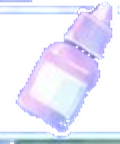
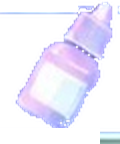
Add files via upload

Changed region(s): [[0.0, 0.8889, 0.85, 1.0], [0.0, 0.0, 0.65, 0.0833]]

diff --git a/index.html b/index.html
@@ -20,9 +20,9 @@ body{
   font-family:system-ui,-apple-system,"Noto Sans KR",sans-serif;
   color:var(--ink);
   background-color:#8cc3f7;
-  background-image:url("background.jpg?v=20");
-  background-position:center center;
-  background-size:cover;
+  background-image:url("background-target.jpg?v=21");
+  background-position:center top;
+  background-size:100% 100%;
   background-repeat:no-repeat;
 }
 
@@ -31,12 +31,12 @@ body{
   position:relative;
   width:90.2vw;
   max-width:780px;
-  height:81.2svh;
-  margin:8.2svh auto 0;
+  height:77.2svh;
+  margin:12.4svh auto 0;
 }
 .titlebar{
   width:100%;
-  height:4.45svh;
+  height:4.55svh;
   min-height:44px;
   max-height:68px;
 }
@@ -44,19 +44,19 @@ body{
   display:block;width:100%;height:100%;object-fit:fill;
 }
 .calendar{
-  height:76.75svh;
+  height:72.65svh;
   min-height:0;
   background:rgba(253,252,255,.985);
   border:1px solid rgba(120,126,194,.74);
   border-top:0;
   border-radius:0 0 18px 18px;
-  padding:1.7svh 1.45% .9svh;
+  padding:1.55svh 1.45% .85svh;
   display:flex;
   flex-direction:column;
   box-shadow:none;
 }
 .month-row{
-  height:4.5svh;
+  height:4.15svh;
   flex:0 0 auto;
   display:grid;
   grid-template-columns:7.4% 1fr 7.4%;
@@ -84,7 +84,7 @@ body{
   line-height:1;
 }
 .week{
-  flex:0 0 2.7svh;
+  flex:0 0 2.55svh;
   display:grid;
   grid-template-columns:repeat(7,1fr);
   gap:.55%;
@@ -105,7 +105,7 @@ body{
   display:grid;
   grid-template-columns:repeat(7,minmax(0,1fr));
   grid-template-rows:repeat(5,minmax(0,1fr));
-  gap:.55%;
+  gap:.62%;
 }
 .day{
   position:relative;
@@ -181,7 +181,7 @@ body{
 }
 
 .legend{
-  flex:0 0 4.2svh;
+  flex:0 0 4.0svh;
   margin-top:.72svh;
   border:1px solid rgba(215,212,235,.68);
   border-radius:8px;
@@ -294,7 +294,7 @@ dialog::backdrop{background:rgba(30,42,88,.40)}
 </head>
 <body>
 <main class="app">
-  <div class="titlebar"><img src="titlebar.jpg?v=20" alt="자기 전 안약 체크"></div>
+  <div class="titlebar"><img src="titlebar.jpg?v=21" alt="자기 전 안약 체크"></div>
   <section class="calendar">
     <div class="month-row">
       <button class="arrow" id="prev" aria-label="이전 달">‹</button>
@@ -314,7 +314,7 @@ dialog::backdrop{background:rgba(30,42,88,.40)}
 
 <dialog id="dlg">
   <div class="popup-head">
-    <img class="popup-bottle" src="popup-bottle.png?v=20" alt="">
+    <img class="popup-bottle" src="popup-bottle.png?v=21" alt="">
     <span>안약 체크</span>
     <button class="popup-close" id="closeDlg" aria-label="닫기">×</button>
   </div>
@@ -407,7 +407,7 @@ function render(){
     if(rec && rec.status==="yes"){
       cell.classList.add("done");
       const badge=document.createElement("div"); badge.className="done-badge";
-      const img=document.createElement("img"); img.src="bottle-mini.png?v=20"; img.alt="";
+      const img=document.createElement("img"); img.src="bottle-mini.png?v=21"; img.alt="";
       badge.appendChild(img); cell.appendChild(badge);
       core.appendChild(num);
       const tm=document.createElement("div"); tm.className="time"; tm.textContent=rec.time||"";
